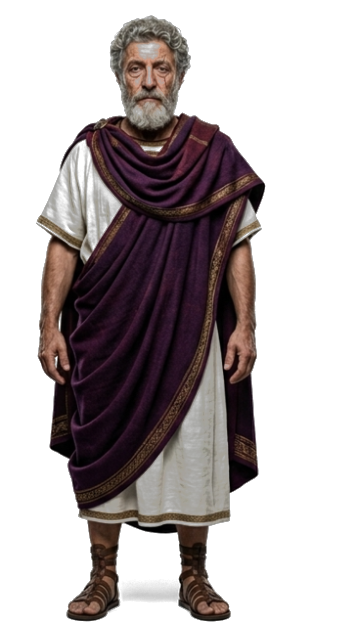
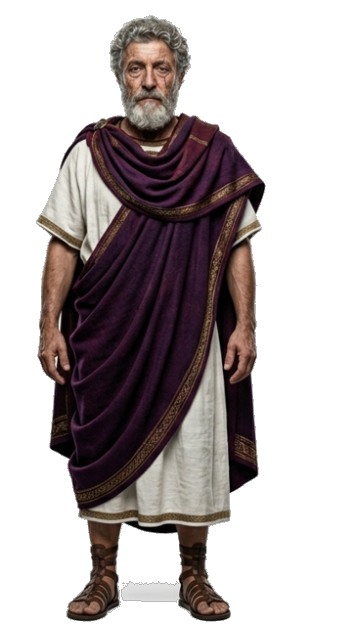
Fix character image colors via boundary Flood-Fill algorithm preserving forehead/tunic, and redesign speech bubble with luxury editorial typography

diff --git a/css/style.css b/css/style.css
@@ -693,39 +693,60 @@ a:hover { color: var(--text-main); }
   opacity: 0.5;
 }
 
-/* Burbuja de Diálogo Interactiva */
+/* Burbuja de Diálogo Interactiva Editorial Luxury */
 .character-speech-bubble {
   position: absolute;
-  top: 1.5rem;
+  top: 1rem;
   left: 50%;
-  transform: translateX(-50%) translateY(10px);
-  background: rgba(13, 14, 18, 0.9);
+  transform: translateX(-50%) translateY(12px) scale(0.96);
+  background: rgba(13, 14, 18, 0.92);
   border: 1px solid var(--border-gold-subtle);
-  border-radius: 12px;
-  padding: 1rem 1.25rem;
-  max-width: 85%;
+  border-radius: 16px;
+  padding: 1.25rem 1.5rem;
+  max-width: 90%;
+  width: max-content;
   text-align: center;
   opacity: 0;
   pointer-events: none;
   z-index: 5;
-  backdrop-filter: blur(12px);
-  -webkit-backdrop-filter: blur(12px);
-  box-shadow: var(--shadow-luxury);
-  transition: opacity 0.35s ease, transform 0.35s cubic-bezier(0.175, 0.885, 0.32, 1.275);
+  backdrop-filter: blur(16px);
+  -webkit-backdrop-filter: blur(16px);
+  box-shadow: 0 15px 35px rgba(0, 0, 0, 0.6), 0 0 25px rgba(212, 175, 55, 0.2);
+  transition: opacity 0.4s cubic-bezier(0.165, 0.84, 0.44, 1), transform 0.4s cubic-bezier(0.175, 0.885, 0.32, 1.275);
+
+  font-family: var(--font-serif);
+  font-style: italic;
+  font-size: 1.05rem;
+  line-height: 1.5;
+  color: var(--text-main);
+  letter-spacing: 0.01em;
 }
+
+.character-speech-bubble strong {
+  display: block;
+  font-family: var(--font-display);
+  font-style: normal;
+  font-size: 0.72rem;
+  letter-spacing: 0.18em;
+  text-transform: uppercase;
+  color: var(--color-gold);
+  margin-bottom: 0.35rem;
+}
+
 .character-speech-bubble.active {
   opacity: 1;
-  transform: translateX(-50%) translateY(0);
+  transform: translateX(-50%) translateY(0) scale(1);
 }
+
 .character-speech-bubble::after {
   content: '';
   position: absolute;
-  bottom: -6px;
+  bottom: -7px;
   left: 50%;
   transform: translateX(-50%) rotate(45deg);
-  width: 12px;
-  height: 12px;
-  background: rgba(13, 14, 18, 0.9);
+  width: 13px;
+  height: 13px;
+  background: rgba(13, 14, 18, 0.92);
   border-right: 1px solid var(--border-gold-subtle);
   border-bottom: 1px solid var(--border-gold-subtle);
 }

diff --git a/index.html b/index.html
@@ -173,6 +173,7 @@
           <!-- Columna Derecha: Silueta Interactiva de El Rayo Romano -->
           <div class="character-interactive-container" id="character-container">
             <div class="character-speech-bubble" id="speech-bubble">
+              <strong>EL RAYO ROMANO</strong>
               "El caos externo es inevitable; tu quietud interna es una elección."
             </div>
             <img src="./rayo-romano-silueta.png" id="character-img" alt="El Rayo Romano Silueta Interactiva" class="character-silhouette-img">

diff --git a/js/main.js b/js/main.js
@@ -405,7 +405,7 @@ function initInteractiveCharacter() {
     
     setTimeout(() => {
       quoteIndex = (quoteIndex + 1) % quotePool.length;
-      bubble.textContent = `"${quotePool[quoteIndex]}"`;
+      bubble.innerHTML = `<strong>EL RAYO ROMANO</strong>"${quotePool[quoteIndex]}"`;
       showBubble();
     }, 200);
   });
